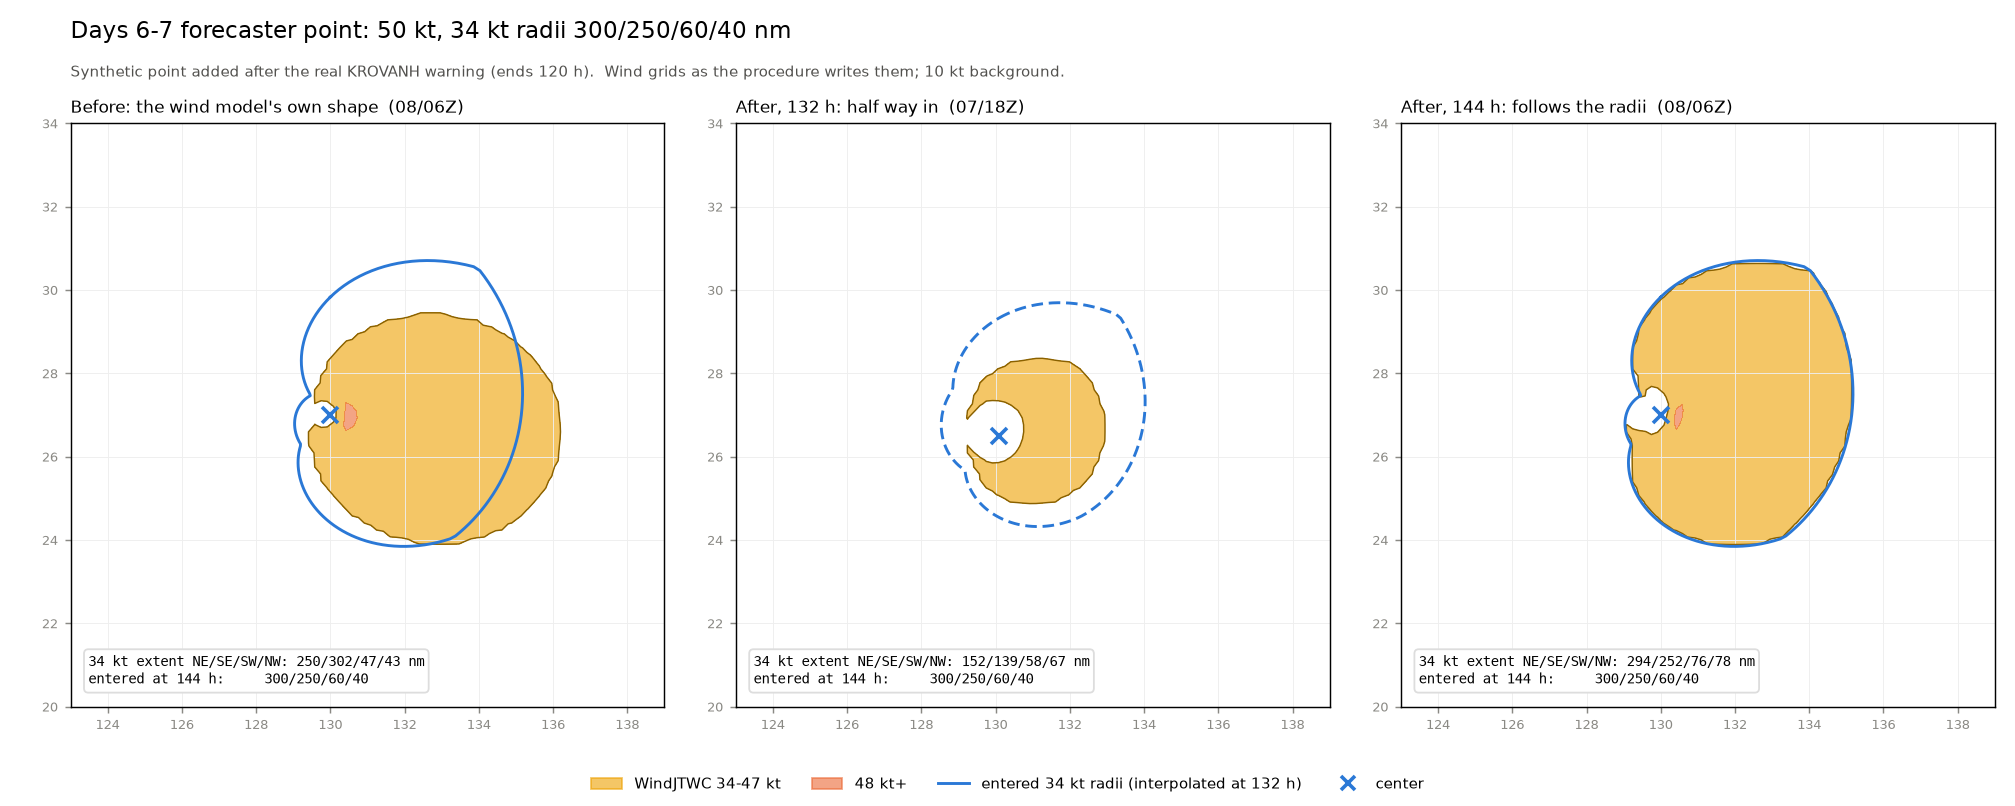
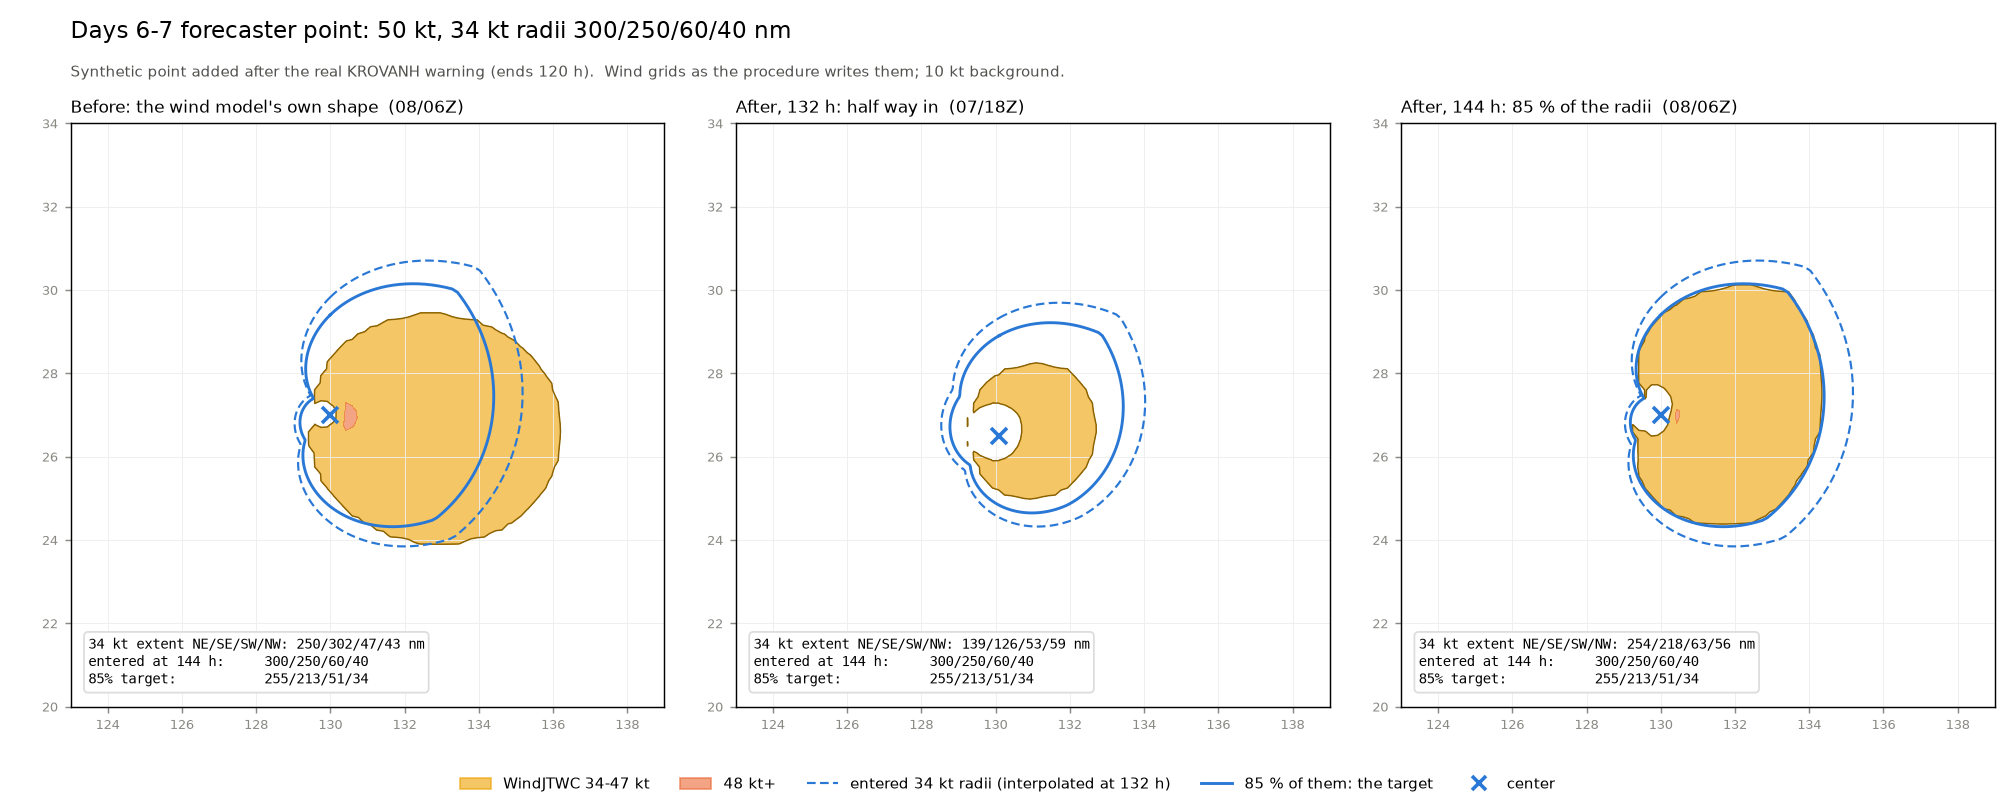
TCWind_JTWC: a forecaster point's 34 kt line lands at 85 % of its radii
As the warnings' fit does (GTCM_QUAD_AVG_FACTOR: a radius is the
quadrant's maximum extent, the line its average). For 300/250/60/40 nm the
34 kt line now lands at about 255/213/51/34 nm, against 338/341/114/84
before any reshaping.

The harness case now checks the shape on a 3 nm grid over the hours around
the point - on the weak side the gale ring is too thin for the 10 nm grid
to sample - against 85 % of each quadrant's radius on its centre line; it
fails without the reshaping (NE 216 vs 255, SE 276 vs 212). The harness can
now run a selected time range with a background Wind inventory covering it.

TCWind_JTWC VERSION 2026-10-03c.

Claude-Session: https://claude.ai/code/session_012v4Yo1gWhzMvsdN6WkUj4C

diff --git a/tests/tcwind_jtwc/test_procedure_harness.py b/tests/tcwind_jtwc/test_procedure_harness.py
@@ -884,13 +884,14 @@ def _modelPmsl(taus, offsetDeg=(1.5, 1.5), depth=8.0):
 
 
 def _run_pmsl(pmsl_fn, write_to="Preview grid", ack="No", label="Yes",
-              block_hours=6, extra=None, pmsl_until_hours=None):
+              block_hours=6, extra=None, pmsl_until_hours=None, mesh_n=120,
+              only=None):
     """Krovanh, with a Fcst pmsl inventory of `block_hours` blocks over
     the warning's span and `pmsl_fn` behind it."""
     text = _load_fixture(KROVANH)
     taus, header, _kind = tc.parseBulletin(text)
     t0, t1 = taus[0].epoch, taus[-1].epoch
-    latGrid, lonGrid = _mesh()
+    latGrid, lonGrid = _mesh(n=mesh_n)
     proc = tc.Procedure(dbss=None)
     proc.configure(texts={"NFDTCPWP1": text}, now_epoch=t0 + 3 * 3600,
                    inv_start=t0, inv_end=t1 + 3 * 3600,
@@ -910,7 +911,17 @@ def _run_pmsl(pmsl_fn, write_to="Preview grid", ack="No", label="Yes",
     if label is not None:
         varDict[tc.PMSL_LABEL] = label
     varDict.update(extra or {})
-    proc.execute(None, None, varDict)
+    timeRange = None
+    if only is not None:
+        # Background Fcst Wind there too, as GFE would have it.
+        proc._inv_end = max(proc._inv_end, only[1] + 3 * 3600)
+        # Selected time range only: (start, end) epochs.
+        import AbsTime
+        import TimeRange
+        varDict["Run over selected time range only?"] = "Yes"
+        timeRange = TimeRange.TimeRange(AbsTime.AbsTime(only[0]),
+                                        AbsTime.AbsTime(only[1]))
+    proc.execute(None, timeRange, varDict)
     return proc, taus, header, latGrid, lonGrid
 
 
@@ -1588,8 +1599,9 @@ def case_bulletins_as_lists_of_lines():
 
 def case_extension_shape_follows_the_radii():
     """At a forecaster point the written grid's 34 kt line follows the four
-    radii entered (a lopsided 300/250/60/40), not a shifted circle; inside
-    the warning the grids are exactly what they are without the points."""
+    radii entered (a lopsided 300/250/60/40), at 85 percent of them like
+    the warnings, not a shifted circle; inside the warning the grids are
+    exactly what they are without the points."""
     fails = []
     taus = _krovanhTaus()
     t0 = taus[0].epoch
@@ -1597,35 +1609,38 @@ def case_extension_shape_follows_the_radii():
     pts[0].update(lat=29.5, lon=131.0, vmax=50.0,
                   r34={"NE": 300.0, "SE": 250.0, "SW": 60.0, "NW": 40.0})
     path = _withStore(pts)
-    proc, _, _, lat, lon = _run_pmsl(_modelPmsl(taus), label="No",
-                                     extra={tc.EXTENSION_LABEL: "Use saved"})
+    # A 3 nm grid over just the hours around the point: on the weak side
+    # the gale ring is 30-50 nm across, too thin for the 10 nm grid.
+    when = t0 + 144 * 3600
+    proc, _, _, lat, lon = _run_pmsl(
+        _modelPmsl(taus), label="No", mesh_n=400,
+        only=(when - 3 * 3600, when + 3 * 3600 + 1),
+        extra={tc.EXTENSION_LABEL: "Use saved"})
+    full, _, _, _, _ = _run_pmsl(_modelPmsl(taus), label="No",
+                                 extra={tc.EXTENSION_LABEL: "Use saved"})
     plain, _, _, _, _ = _run_pmsl(_modelPmsl(taus), label="No")
     os.remove(path)
-    winds = dict((a[4].startTime().unixTime(), np.asarray(a[3][0]))
-                 for a, _ in proc.created if a[2] == "VECTOR")
-    plainWinds = dict((a[4].startTime().unixTime(), np.asarray(a[3][0]))
-                      for a, _ in plain.created if a[2] == "VECTOR")
-    when = t0 + 144 * 3600
-    if when not in winds:
+
+    def windsOf(p):
+        return dict((a[4].startTime().unixTime(), np.asarray(a[3][0]))
+                    for a, _ in p.created if a[2] == "VECTOR")
+    fine, winds, plainWinds = windsOf(proc), windsOf(full), windsOf(plain)
+    if when not in fine:
         return ["no Wind grid at the 144 h point"], proc
     dist = np.vectorize(tc._gcDistanceNm)(lat, lon, 29.5, 131.0)
     dLon = (lon - 131.0) * np.cos(np.radians(29.5))
     bearing = np.degrees(np.arctan2(dLon, lat - 29.5)) % 360.0
-    # Each quadrant's centre line, in a +/-15 degree wedge (the 10 nm grid
-    # has no points in a narrower one close in), against the largest radius
-    # the entered radii give inside that wedge: within 15 percent plus a
-    # grid spacing.
+    # Each quadrant's centre line: the 34 kt extent against 85 percent of
+    # the entered radius, within 10 percent plus one grid spacing.
     quad = pts[0]["r34"]
     for centre, q in zip((45.0, 135.0, 225.0, 315.0), tc.QUADS):
-        near = np.abs(((bearing - centre + 180.0) % 360.0) - 180.0) < 15.0
-        gale = near & (winds[when] >= 34.0)
+        near = np.abs(((bearing - centre + 180.0) % 360.0) - 180.0) < 3.0
+        gale = near & (fine[when] >= 34.0)
         have = float(dist[gale].max()) if gale.any() else 0.0
-        want = float(tc._quadrantTable(quad, np.arange(centre - 15.0,
-                                                       centre + 15.1,
-                                                       1.0)).max())
-        if abs(have - want) > 0.15 * want + 10.0:
-            fails.append("%s 34 kt extent %.0f nm, entered radii give %.0f"
-                         % (q, have, want))
+        want = tc.SHAPE_RADIUS_FACTOR * quad[q]
+        if abs(have - want) > 0.10 * want + 3.0:
+            fails.append("%s 34 kt extent %.0f nm, target %.0f (85%% of %.0f)"
+                         % (q, have, want, quad[q]))
     same = [k for k in plainWinds if k <= t0 + 96 * 3600]
     changed = [k for k in same if k in winds and
                np.abs(winds[k] - plainWinds[k]).max() > 1e-4]

diff --git a/tests/tcwind_jtwc/plot_extension_shape.py b/tests/tcwind_jtwc/plot_extension_shape.py
@@ -90,7 +90,7 @@ def main():
     shaped, _, _, _, _ = run(True)
     panels = [(plain, 144, "Before: the wind model's own shape"),
               (shaped, 132, "After, 132 h: half way in"),
-              (shaped, 144, "After, 144 h: follows the radii")]
+              (shaped, 144, "After, 144 h: 85 % of the radii")]
 
     fig, axes = plt.subplots(1, 3, figsize=(15.5, 6.2), dpi=130)
     for ax, (winds, h, title) in zip(axes, panels):
@@ -103,13 +103,17 @@ def main():
                    linewidths=0.8)
         if snap.radii.get(34):
             x, y = outline(snap.lat, snap.lon, snap.radii[34])
-            ax.plot(x, y, color=BLUE, linewidth=1.6,
-                    linestyle=(0, (4, 2)) if h != 144 else "-")
+            ax.plot(x, y, color=BLUE, linewidth=1.2, linestyle=(0, (4, 2)))
+            target = dict((q, tc.SHAPE_RADIUS_FACTOR * v)
+                          for q, v in snap.radii[34].items())
+            x, y = outline(snap.lat, snap.lon, target)
+            ax.plot(x, y, color=BLUE, linewidth=1.6)
         ax.plot(snap.lon, snap.lat, "x", color=BLUE, markersize=9,
                 markeredgewidth=2)
         got = extents(f, lat, lon, snap.lat, snap.lon)
         ax.text(0.03, 0.04, "34 kt extent NE/SE/SW/NW: %d/%d/%d/%d nm\n"
-                "entered at 144 h:     300/250/60/40" % tuple(got),
+                "entered at 144 h:     300/250/60/40\n"
+                "85%% target:           255/213/51/34" % tuple(got),
                 transform=ax.transAxes, fontsize=8, family="monospace",
                 bbox=dict(boxstyle="round,pad=0.3", fc="white", ec="#ddd"))
         ax.set_xlim(LON - 7, LON + 9)
@@ -122,11 +126,12 @@ def main():
     fig.legend(handles=[
         Patch(color=GALE, alpha=0.6, label="WindJTWC 34-47 kt"),
         Patch(color=STORM, alpha=0.6, label="48 kt+"),
-        Line2D([], [], color=BLUE, lw=1.6,
+        Line2D([], [], color=BLUE, lw=1.2, ls=(0, (4, 2)),
                label="entered 34 kt radii (interpolated at 132 h)"),
+        Line2D([], [], color=BLUE, lw=1.6, label="85 % of them: the target"),
         Line2D([], [], color=BLUE, marker="x", ls="none", ms=8, mew=2,
                label="center")],
-        loc="lower center", ncol=4, frameon=False, fontsize=8.5)
+        loc="lower center", ncol=5, frameon=False, fontsize=8.5)
     fig.suptitle("Days 6-7 forecaster point: 50 kt, 34 kt radii "
                  "300/250/60/40 nm", x=0.035, ha="left", fontsize=13,
                  y=0.975)

diff --git a/GFE/procedures/TCWind_JTWC.py b/GFE/procedures/TCWind_JTWC.py
@@ -319,8 +319,11 @@ ET_ASYM_CAP_FRACTION = 0.45
 
 # [doc 74]
 # At a forecaster point the wind field is reshaped so its 34 kt line follows
-# the four radii entered, the reshaping fading in from the warning's last
+# the four radii entered, at SHAPE_RADIUS_FACTOR of them - the same 85 % the
+# warnings' fit lands at (GTCM_QUAD_AVG_FACTOR: a radius is the quadrant's
+# maximum extent, the line its average) - fading in from the warning's last
 # time.  The per-azimuth distance scale it takes is held to these limits.
+SHAPE_RADIUS_FACTOR = GTCM_QUAD_AVG_FACTOR
 SHAPE_SCALE_LIMITS = (0.25, 4.0)
 
 # 1.0 keeps JTWC's 1-minute sustained winds; 0.88 converts to 10-minute.
@@ -353,7 +356,7 @@ REQUIRE_ACKNOWLEDGEMENT = True
 
 # Shown in the dialog title and the status bar.  Bump it on every install so
 # there is never any doubt about which copy GFE actually loaded.
-VERSION = "2026-10-03b"
+VERSION = "2026-10-03c"
 
 # [doc 19]
 MAX_BULLETIN_AGE_HOURS = 12.0
@@ -1399,7 +1402,7 @@ def _buildVortexGTCM(latGrid, lonGrid, snapshot, rmax_nm, outerDecayFactor,
     # (core, fade, footprint) follows the new shape too.
     if shapeTarget is not None:
         quad, weight = shapeTarget
-        target = _quadrantTable(quad, azTable)
+        target = SHAPE_RADIUS_FACTOR * _quadrantTable(quad, azTable)
         ok = anyAbove & (target > 0.0)
         ratio = np.where(ok, r34_table / np.maximum(target, 1e-3), 1.0)
         ratio = np.clip(ratio, SHAPE_SCALE_LIMITS[0], SHAPE_SCALE_LIMITS[1])

diff --git a/GFE/procedures/TCWind_JTWC_TECHNICAL.md b/GFE/procedures/TCWind_JTWC_TECHNICAL.md
@@ -11,7 +11,7 @@ marker pointing at the matching numbered note below.
 | | |
 |---|---|
 | Procedure | `GFE/procedures/TCWind_JTWC.py` |
-| Version | `2026-10-03b` (the `VERSION` tunable; the status bar prints it) |
+| Version | `2026-10-03c` (the `VERSION` tunable; the status bar prints it) |
 | Install | `/awips2/edex/data/utility/common_static/site/<SITE>/gfe/userPython/procedures/` |
 | Install test | `AWIPS_TEST.md`, and `selfcheck/run_selfcheck.sh` in the export bundle |
 
@@ -837,11 +837,15 @@ it is fit to, its 34 kt line comes out a circle shifted toward the strong
 side: 300/250/60/40 nm came out 338/341/114/84.  Warnings keep that by
 design (note 38).  At a forecaster's days 6-7 point the four radii are the
 forecaster's own, so they are followed: along each azimuth, distance is
-rescaled by the ratio of the field's own 34 kt radius to the target there
-(the quadrant radii at the quadrant centres, linear between, wrapping), and
-the field is evaluated at the rescaled distance.  The 34 kt line then lands
-on the entered radii - 298/250/61/41 for that case - while the profile, its
-peak and the decay outside keep their fitted form along each line.  The
+rescaled by the ratio of the field's own 34 kt radius to the target there,
+and the field is evaluated at the rescaled distance.  The target is 85 % of
+the quadrant radii (SHAPE_RADIUS_FACTOR, the warnings' GTCM_QUAD_AVG_FACTOR:
+a radius is the quadrant's maximum extent, the line its average), at the
+quadrant centres, linear between, wrapping.  For 300/250/60/40 nm the 34 kt
+line lands at about 255/213/51/34 nm, where the unshaped field gave
+338/341/114/84 - the strong side reached past the radii, the weak side
+nearly twice them - while the profile, its peak and the decay outside keep
+their fitted form along each line.  The
 rescaled distance is what the insertion sees too, so the core, the fade to
 1.5 x R34 and the footprint follow the new shape.  The scale is held to
 0.25-4.  From the warning's last time to the first forecaster point it

diff --git a/README.md b/README.md
@@ -356,14 +356,16 @@ warning covers is dropped.
 
 *A 50 kt point with 34 kt radii 300/250/60/40 nm. Left: the wind model's
 own shape, a circle shifted east. Right: the field reshaped so its 34 kt
-line follows the radii. Middle: half way in, between the warning's last
-time and the point.*
+line follows the radii, at 85 % of them like the warnings. Middle: half way
+in, between the warning's last time and the point.*
 
-- **The 34 kt line follows the four radii you enter.** The wind model on
-  its own is a circle shifted toward the strong side, so at your points the
-  field is reshaped along each direction until its 34 kt line lands on your
-  radii (300/250/60/40 nm comes out 298/250/61/41), fading in from the
-  warning's last time. Warning times are unchanged.
+- **The 34 kt line follows the four radii you enter**, at 85 % of them -
+  the same as the warnings, since a radius is the quadrant's maximum extent
+  and the line its average. The wind model on its own is a circle shifted
+  toward the strong side, so at your points the field is reshaped along
+  each direction (300/250/60/40 nm comes out about 255/213/51/34 instead of
+  338/341/114/84), fading in from the warning's last time. Warning times
+  are unchanged.
 - **Extratropical** flags the point the way a warning's own transition is
   flagged, so **Subtropical / extratropical systems: Skip** leaves it out,
   and **Include** (the default) moves such storms in pmsl too, not just
@@ -372,7 +374,7 @@ time and the point.*
   limit of the wind fit at warning times: a 35-45 kt storm whose gales
   reach far out cannot be fit, and its 34 kt extent falls well short
   (KROVANH at 35 kt: 120 nm reported, about 40 nm built). At your own
-  points the reshaping puts the 34 kt line where you entered it.
+  points the reshaping puts the 34 kt line at 85 % of what you entered.
 - The points live in `~/.TCWind_JTWC_extensions.json` by default; set
   `EXTENSION_STORE` to a shared directory so they survive a shift change.
 
